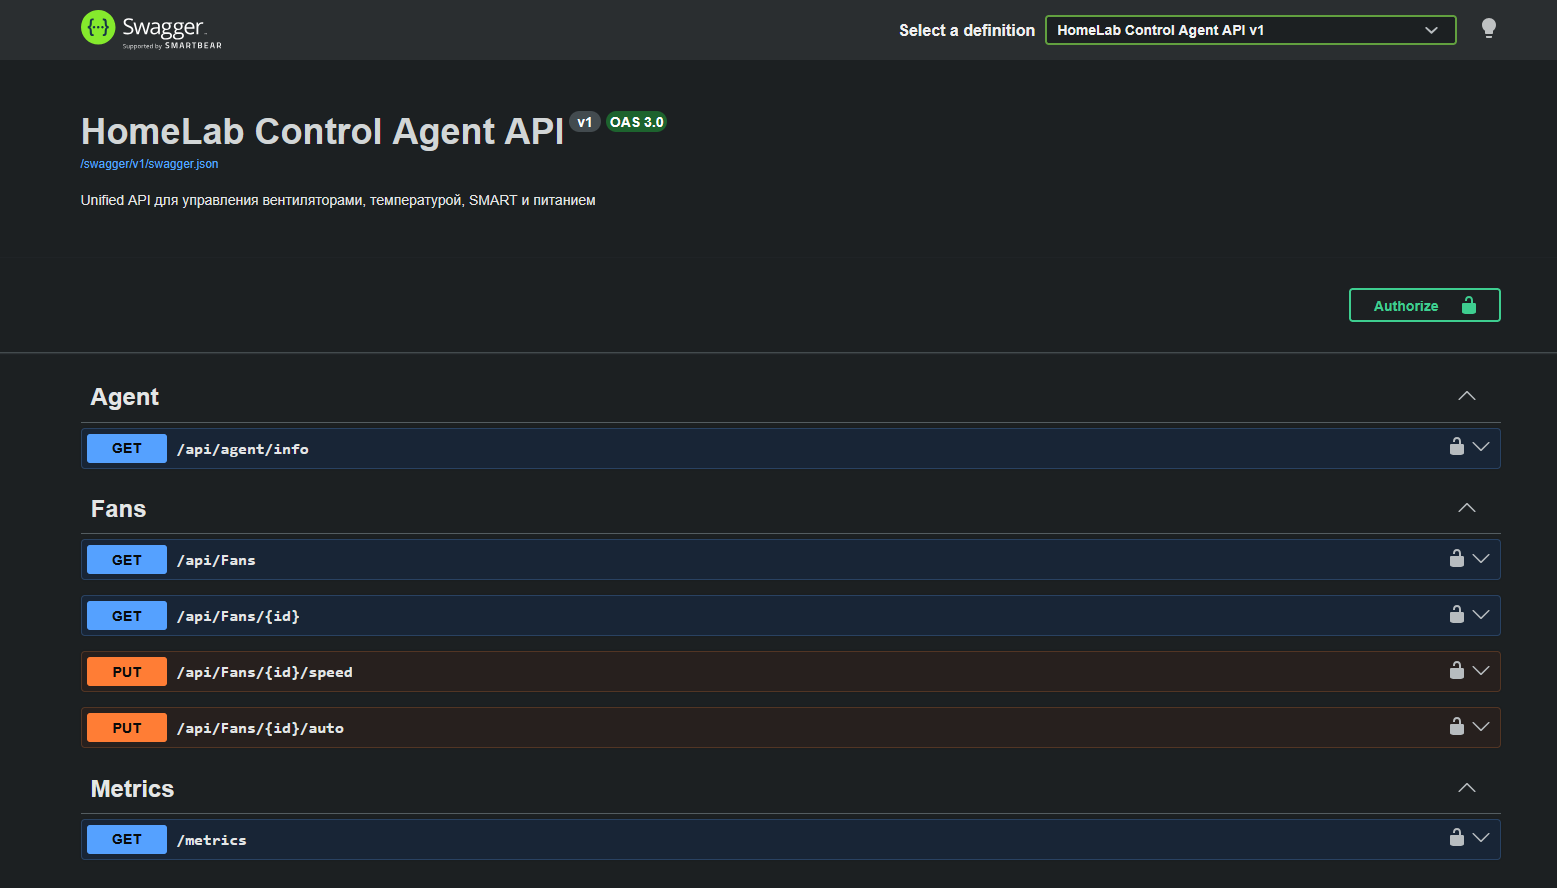
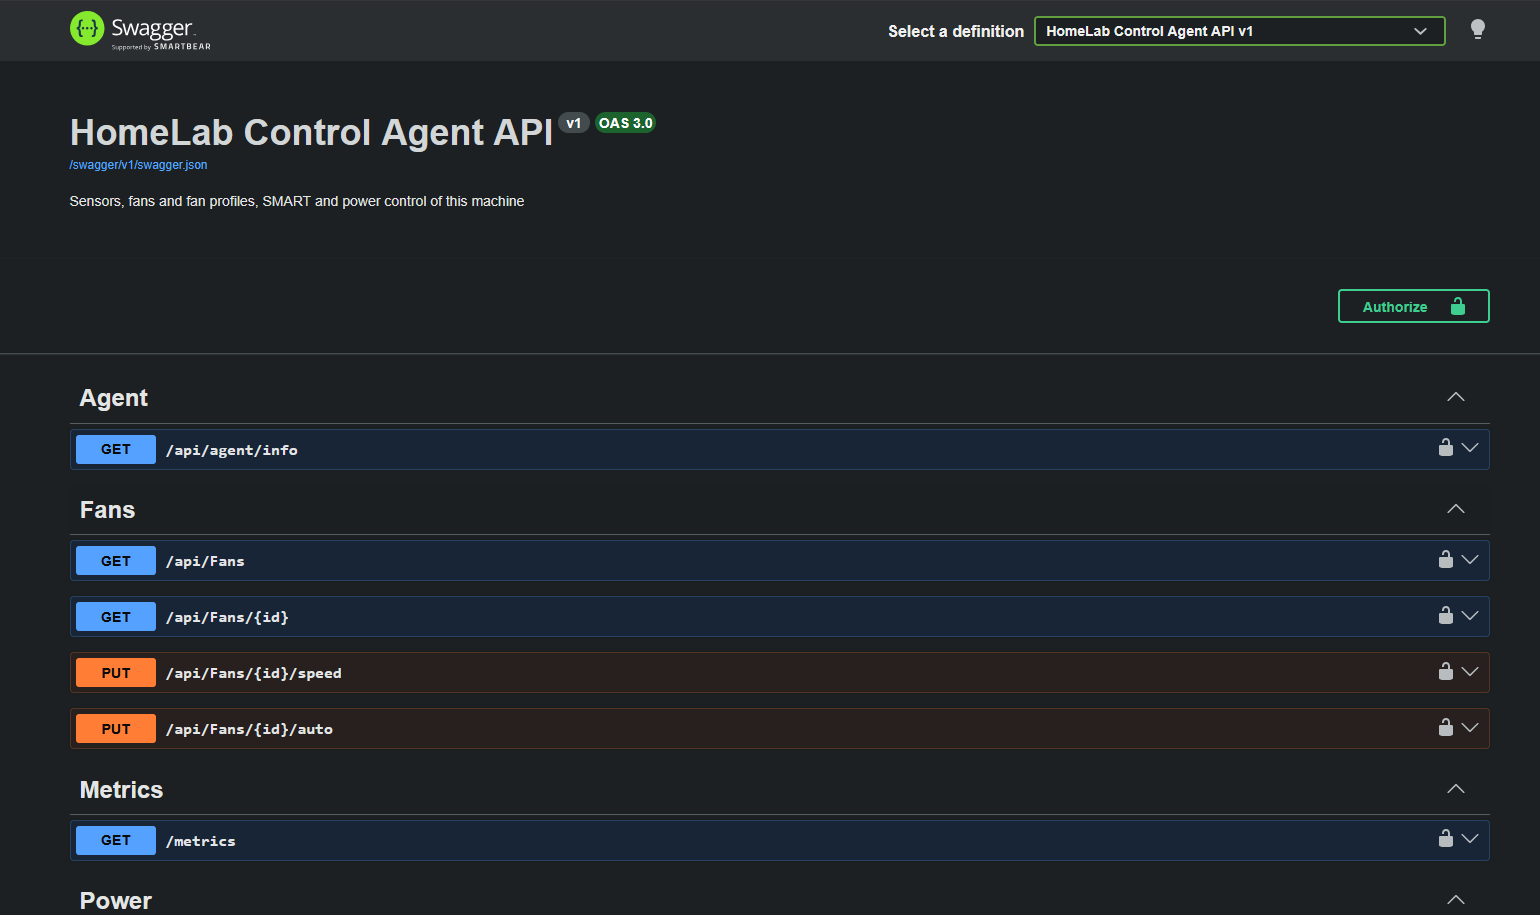
README: Swagger screenshots in English, calling a method

diff --git a/README.md b/README.md
@@ -245,7 +245,12 @@ Running it again from a newer build updates the agent and keeps the keys.
 
 Base URL `http://<host>:8117`, Swagger UI at `/` (opens without a key; press **Authorize** and enter the agent key to call methods; `"Swagger": { "Enabled": false }` turns it off).
 
-<img src=".github/screenshots/swagger.png" alt="Agent Swagger UI" width="720">
+<table>
+  <tr>
+    <td width="50%"><img src=".github/screenshots/swagger.png" alt="Agent Swagger UI"><br><sub>Swagger UI of the agent — <b>Authorize</b> with the agent key</sub></td>
+    <td width="50%"><img src=".github/screenshots/swagger-try.png" alt="Calling the API from Swagger"><br><sub>Calling a method right from the browser</sub></td>
+  </tr>
+</table>
 
 **Authentication.** Every call except `GET /api/power/status` and `GET /api/agent/info` needs `X-Api-Key: <key>` (or `Authorization: Bearer <key>`).
 - **Where the key lives:** `appsettings.Local.json` next to the agent. A deploy from HomeLabControl or the install script fills it in; updates never overwrite it.
